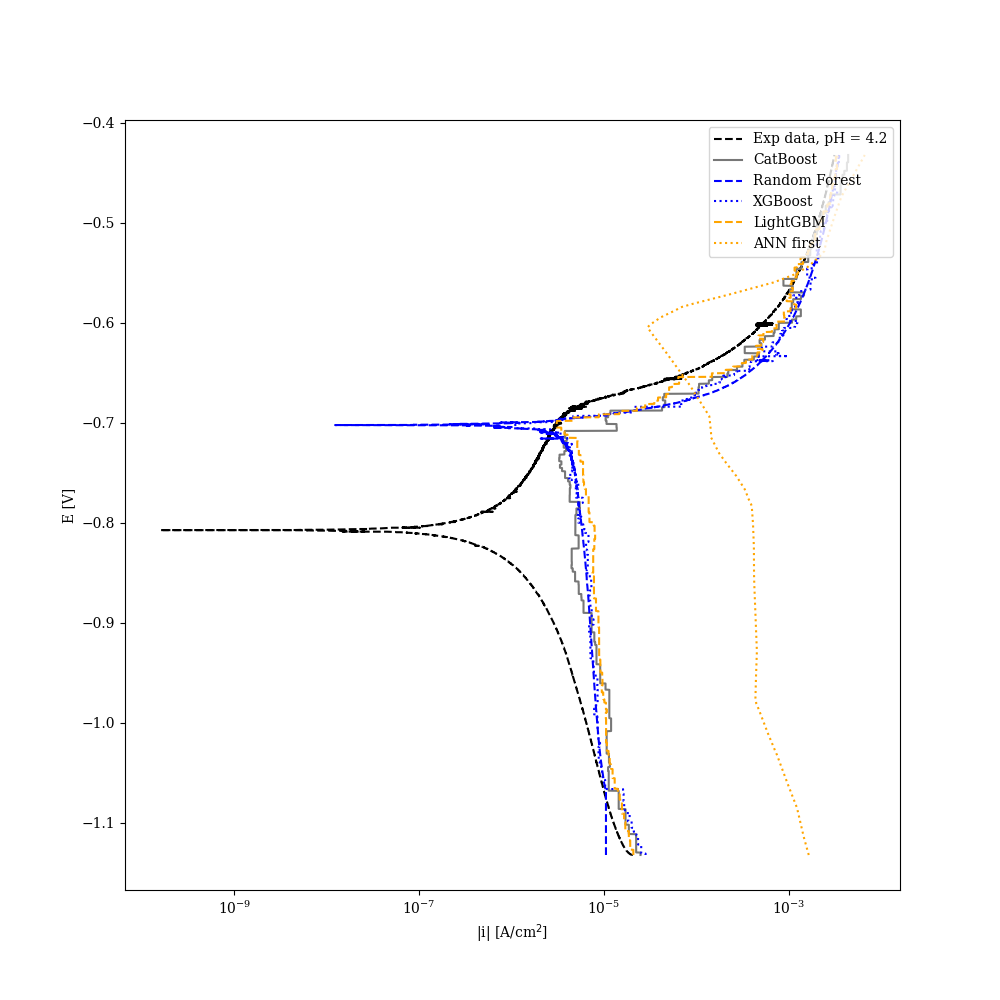
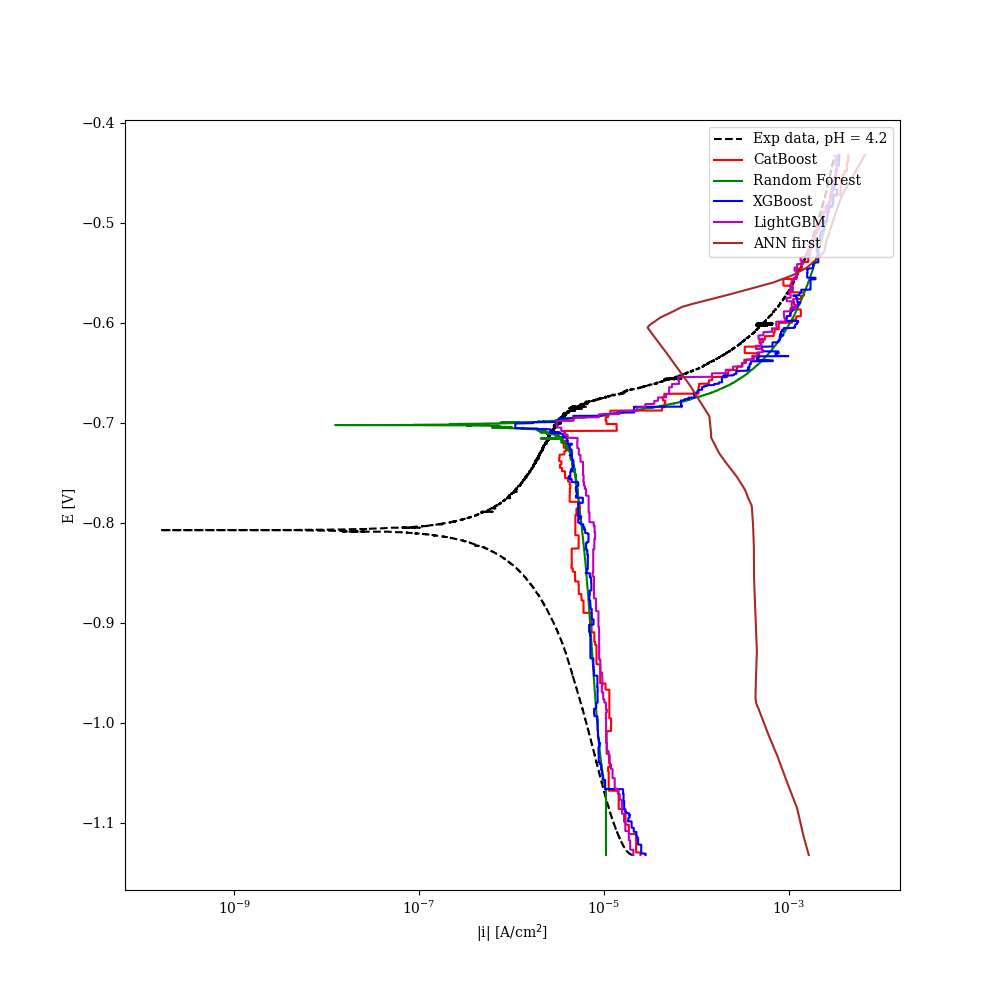
appendix model vs exp

diff --git a/src/compare_models_with_exp_data.py b/src/compare_models_with_exp_data.py
@@ -65,8 +65,8 @@ def linestyles_and_markers_for_model_comparisons(model_str: str) -> list[str]:
     Function to create unique linestyle and marker for each model
     """
     models = ["cb", "rf", "xgb", "lgb", "ann"]
-    linestyles = ["-", "--", ":", "--", ":"]
-    colors = ["#777777", "b", "b", "orange", "orange"]
+    linestyles = ["-", "-", "-", "-", "-"]
+    colors = ["r", "g", "b", "m", "brown"]
     try:
         idx = models.index(model_str)
         return [linestyles[idx], colors[idx]]
@@ -101,19 +101,57 @@ if __name__ == "__main__":
     ax_loss_ANN.set_xlabel("Epochs")
     ax_loss_ANN.set_ylabel("Error, RMSE")
 
+    # Appendix: evaluate each model with exp data. 2x2 plot
+    fig_rf, ax_individual_model_vs_exp_rf = plt.subplots(2, 2, figsize=(15, 15))
+    fig_rf.supxlabel("|i| [A/cm$^2$]")
+    fig_rf.supylabel("E [V]")
 
-def plot_experimental_testing_data(ph) -> None:
+    fig_cb, ax_individual_model_vs_exp_cb = plt.subplots(2, 2, figsize=(15, 15))
+    fig_cb.supxlabel("|i| [A/cm$^2$]")
+    fig_cb.supylabel("E [V]")
+
+    fig_lgb, ax_individual_model_vs_exp_lgb = plt.subplots(2, 2, figsize=(15, 15))
+    fig_lgb.supxlabel("|i| [A/cm$^2$]")
+    fig_lgb.supylabel("E [V]")
+
+    fig_ann, ax_individual_model_vs_exp_ann = plt.subplots(2, 2, figsize=(15, 15))
+    fig_ann.supxlabel("|i| [A/cm$^2$]")
+    fig_ann.supylabel("E [V]")
+
+    fig_xgb, ax_individual_model_vs_exp_xgb = plt.subplots(2, 2, figsize=(15, 15))
+    fig_xgb.supxlabel("|i| [A/cm$^2$]")
+    fig_xgb.supylabel("E [V]")
+
+
+def plot_experimental_testing_data(ph, loc1, loc2) -> None:
     """
     Plots the experimental filtered curves for all pHs in the test data set
     """
 
     # potential, abs(current density)
     X_test_ph, y_test_ph = filter_x_y_boolean_mask(ph)
-    ax_pred.semilogx(10**y_test_ph, X_test_ph[:, 0], label=f"Exp data, pH = {ph}", color="k", linestyle="--")
-    ax_compare_anns.semilogx(10**y_test_ph, X_test_ph[:, 0], label=f"Exp data, pH = {ph}", color="k", linestyle="--")
+    figures_to_plot_exp_data_in = [
+        ax_pred,
+        ax_compare_anns,
+        ax_individual_model_vs_exp_rf[loc1, loc2],
+        ax_individual_model_vs_exp_cb[loc1, loc2],
+        ax_individual_model_vs_exp_lgb[loc1, loc2],
+        ax_individual_model_vs_exp_xgb[loc1, loc2],
+        ax_individual_model_vs_exp_ann[loc1, loc2],
+    ]
+    for idx, fig in enumerate(figures_to_plot_exp_data_in):
+        fig.semilogx(
+            10**y_test_ph,
+            X_test_ph[:, 0],
+            label=f"Exp. data, pH = {ph}" if idx >= 2 else f"Exp data, pH = {ph}",
+            color="k",
+            linestyle="--",
+        )
+
+    # Appendix plots
 
 
-def random_forest_comparison(ph) -> None:
+def random_forest_comparison(ph, loc1, loc2) -> None:
     """
     The RF data is trained and stored from train_models.py
     """
@@ -124,22 +162,33 @@ def random_forest_comparison(ph) -> None:
     current_density_pred = pd.read_csv(f"{path}/current_density_pred_ph_{ph}.csv", sep="\t")["Current density [A/cm2]"]
 
     linestyle, color = linestyles_and_markers_for_model_comparisons("rf")
-    ax_pred.semilogx(
-        current_density_pred,
-        X_test_ph[:, 0],
-        label="Random Forest",
-        linestyle=linestyle,
-        color=color,
-    )
+    figures_to_plot_pred_in = [ax_pred, ax_individual_model_vs_exp_rf[loc1, loc2]]
+    for ax in figures_to_plot_pred_in:
+        ax.semilogx(
+            current_density_pred,
+            X_test_ph[:, 0],
+            label="Random Forest" if ax == ax_pred else f"RF, pH = {ph}",
+            linestyle=linestyle,
+            color=color,
+        )
 
 
-def catboost_comparison(ph, store_mape: list) -> None:
+def catboost_comparison(ph, store_mape: list, loc1, loc2) -> None:
     cb = CatBoostRegressor()
     cb.load_model("models_saved/catboost_model.cbm")
     X_test_ph, y_test_ph = filter_x_y_boolean_mask(ph)
     y_pred_ph = cb.predict(X_test_ph)
     linestyle, color = linestyles_and_markers_for_model_comparisons("cb")
-    ax_pred.semilogx(10**y_pred_ph, X_test_ph[:, 0], label="CatBoost", linestyle=linestyle, color=color)
+
+    figures_to_plot_pred_in = [ax_pred, ax_individual_model_vs_exp_cb[loc1, loc2]]
+    for ax in figures_to_plot_pred_in:
+        ax.semilogx(
+            10**y_pred_ph,
+            X_test_ph[:, 0],
+            label="CatBoost" if ax == ax_pred else f"CB, pH = {ph}",
+            linestyle=linestyle,
+            color=color,
+        )
 
     store_mape.append(mape(y_pred_ph, y_test_ph))
 
@@ -155,7 +204,7 @@ def plot_train_val_loss_catboost():
     )
 
 
-def xgboost_comparison(ph, store_mape) -> None:
+def xgboost_comparison(ph, store_mape, loc1, loc2) -> None:
     xgb = XGBRegressor()
     xgb.load_model("models_saved/xgboost.txt")
     X_test, y_test = filter_x_y_boolean_mask(ph)
@@ -163,8 +212,17 @@ def xgboost_comparison(ph, store_mape) -> None:
     y_pred = xgb.predict(X_test)
     store_mape.append(mape(y_pred, y_test) * 100)
     y_pred = 10**y_pred
+
     linestyle, color = linestyles_and_markers_for_model_comparisons("xgb")
-    ax_pred.semilogx(y_pred, X_test[:, 0], label="XGBoost", linestyle=linestyle, color=color)
+    figures_to_plot_pred_in = [ax_pred, ax_individual_model_vs_exp_xgb[loc1, loc2]]
+    for ax in figures_to_plot_pred_in:
+        ax.semilogx(
+            y_pred,
+            X_test[:, 0],
+            label="XGBoost" if ax == ax_pred else f"XGB, pH = {ph}",
+            linestyle=linestyle,
+            color=color,
+        )
 
 
 def plot_train_val_loss_xgboost():
@@ -178,7 +236,7 @@ def plot_train_val_loss_xgboost():
     )
 
 
-def lgbm_comparison(ph, store_mape) -> None:
+def lgbm_comparison(ph, store_mape, loc1, loc2) -> None:
     lgbm = lgb.Booster(model_file="models_saved/lgbm.txt")
     X_test, y_test = filter_x_y_boolean_mask(ph)
     # prediction of log10(abs(current density))
@@ -186,7 +244,16 @@ def lgbm_comparison(ph, store_mape) -> None:
     store_mape.append(mape(y_pred, y_test) * 100)
     y_pred = 10**y_pred
     linestyle, color = linestyles_and_markers_for_model_comparisons("lgb")
-    ax_pred.semilogx(y_pred, X_test[:, 0], label="LightGBM", linestyle=linestyle, color=color)
+
+    figures_to_plot_pred_in = [ax_pred, ax_individual_model_vs_exp_lgb[loc1, loc2]]
+    for ax in figures_to_plot_pred_in:
+        ax.semilogx(
+            y_pred,
+            X_test[:, 0],
+            label="LightGBM" if ax == ax_pred else f"LGBM, pH = {ph}",
+            linestyle=linestyle,
+            color=color,
+        )
 
 
 def plot_train_val_loss_lgbm():
@@ -201,7 +268,7 @@ def plot_train_val_loss_lgbm():
     )
 
 
-def ANN_comparison(ph, store_mape) -> None:
+def ANN_comparison(ph, store_mape, loc1, loc2) -> None:
     _, _, _, _, x_scaler, y_scaler = normalize_data_for_ANN()
     X_test, y_test = filter_x_y_boolean_mask(ph)
 
@@ -217,8 +284,16 @@ def ANN_comparison(ph, store_mape) -> None:
             # store error only if best model
             if file == "first_best_model.h5":
                 linestyle, color = linestyles_and_markers_for_model_comparisons("ann")
-                ax_pred.semilogx(y_pred, X_test[:, 0], label=f"ANN {which_model}", linestyle=linestyle, color=color)
-                ax_compare_anns.semilogx(y_pred, X_test[:, 0], label=f"ANN {which_model}")
+
+                figures_to_plot_pred_in = [ax_pred, ax_compare_anns, ax_individual_model_vs_exp_ann[loc1, loc2]]
+                for idx, ax in enumerate(figures_to_plot_pred_in):
+                    ax.semilogx(
+                        y_pred,
+                        X_test[:, 0],
+                        label=f"ANN {which_model}" if idx < 2 else f"ANN, pH = {ph}",
+                        linestyle=linestyle,
+                        color=color,
+                    )
                 store_mape.append(mape(y_pred_log, y_test) * 100)
             else:
                 ax_compare_anns.semilogx(y_pred, X_test[:, 0], label=f"ANN {which_model}")
@@ -312,14 +387,26 @@ if __name__ == "__main__":
     store_mape_xgboost = []
     store_mape_lgbm = []
     store_mape_ann = []
+    ax_locs_appendix = [[0, 1], [1, 1], [1, 0], [0, 0]]
     # do preds for each pH in the test data set
-    for ph in df["test_pHs"]:
-        plot_experimental_testing_data(ph)
-        catboost_comparison(ph, store_mape_catboost)
-        random_forest_comparison(ph)
-        xgboost_comparison(ph, store_mape_xgboost)
-        lgbm_comparison(ph, store_mape_lgbm)
-        ANN_comparison(ph, store_mape_ann)
+    for ax_loc, ph in zip(ax_locs_appendix, df["test_pHs"]):
+        loc1, loc2 = ax_loc[0], ax_loc[1]
+        plot_experimental_testing_data(ph, loc1, loc2)
+        catboost_comparison(ph, store_mape_catboost, loc1, loc2)
+        random_forest_comparison(ph, loc1, loc2)
+        xgboost_comparison(ph, store_mape_xgboost, loc1, loc2)
+        lgbm_comparison(ph, store_mape_lgbm, loc1, loc2)
+        ANN_comparison(ph, store_mape_ann, loc1, loc2)
+        # create legends for each subplot in appendix plot
+        ax_list_appendix_plots = [
+            ax_individual_model_vs_exp_rf,
+            ax_individual_model_vs_exp_cb,
+            ax_individual_model_vs_exp_lgb,
+            ax_individual_model_vs_exp_xgb,
+            ax_individual_model_vs_exp_ann,
+        ]
+        for ax in ax_list_appendix_plots:
+            ax[loc1, loc2].legend()
 
         # save figs
         try:
@@ -345,3 +432,8 @@ if __name__ == "__main__":
     best_scores_mape_log = best_scores_mape_log.sort_values(by="pH").reset_index(drop=True)
     best_scores_mape_log.to_csv("model_figures/mape_of_pred_log%.csv", sep="\t", index=False)
     plot_histogram_mape_models(best_scores_mape_log)
+
+    # Appendix scientific paper
+    for fig, model in zip([fig_rf, fig_cb, fig_lgb, fig_ann, fig_xgb], ["rf", "cb", "lgb", "ann", "xgb"]):
+        fig.tight_layout()
+        fig.savefig(f"model_figures/appendix/{model}.png")

diff --git a/src/plot_raw_data.py b/src/plot_raw_data.py
@@ -33,19 +33,19 @@ def plot_and_return_dataframe_with_filtered_data(
 
     if __name__ == "__main__":
         #  define figure to plot raw data in
-        fig, ax = plt.subplots(2, 2, figsize=(15, 15))
+        fig, ax = plt.subplots(2, 2, figsize=(10, 10))
         fig.supxlabel("|i| [A/cm$^2$]")
         fig.supylabel("E [V]")
         fig.tight_layout()
 
         # define figure to plot filtered data in
-        fig2, ax2 = plt.subplots(2, 2, figsize=(15, 15))
+        fig2, ax2 = plt.subplots(2, 2, figsize=(10, 10))
         fig2.supxlabel("|i| [A/cm$^2$]")
         fig2.supylabel("E [V]")
         fig2.tight_layout()
 
         # figure to plot tafel slopes
-        fig_tafel, ax_tafel = plt.subplots(2, 2, figsize=(15, 15))
+        fig_tafel, ax_tafel = plt.subplots(2, 2, figsize=(10, 10))
         fig_tafel.supxlabel("|i| [A/cm$^2$]")
         fig_tafel.supylabel("E [V]")
         fig_tafel.tight_layout()
